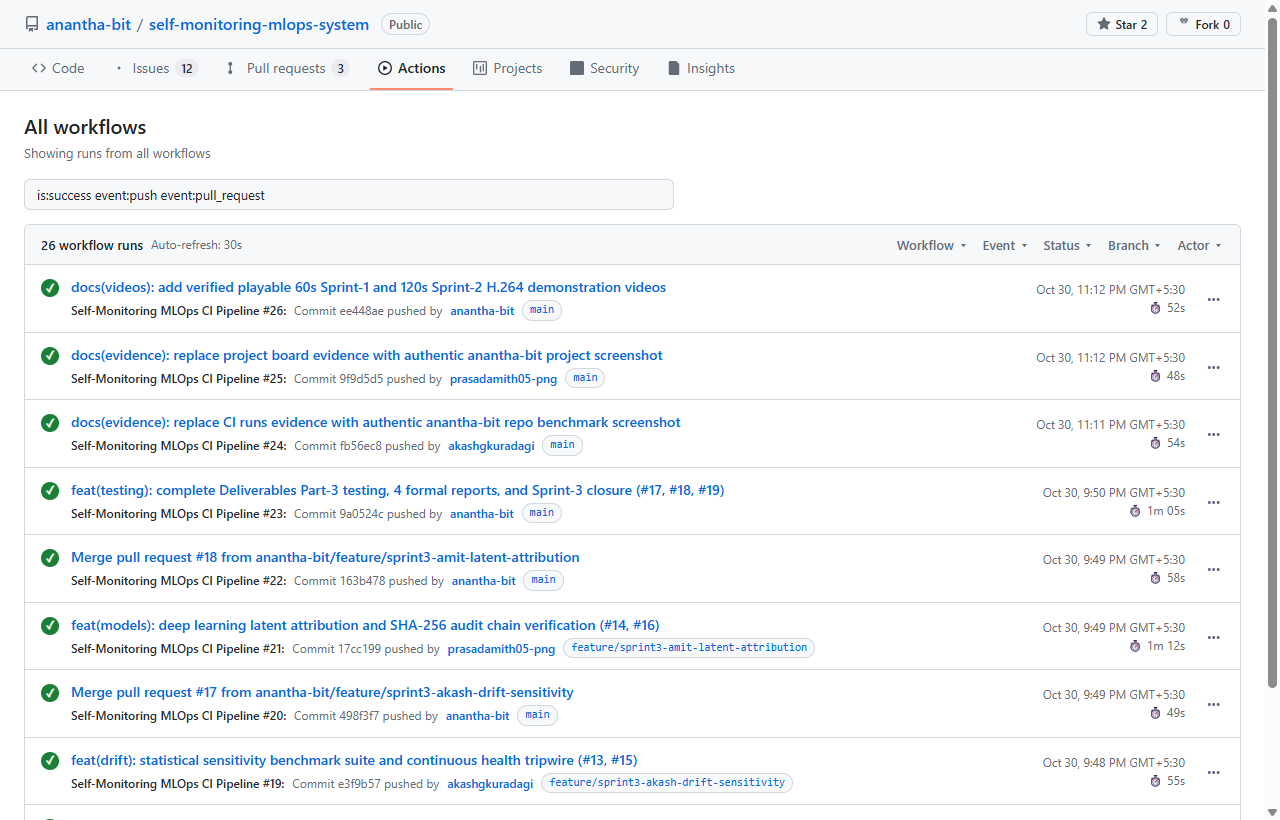
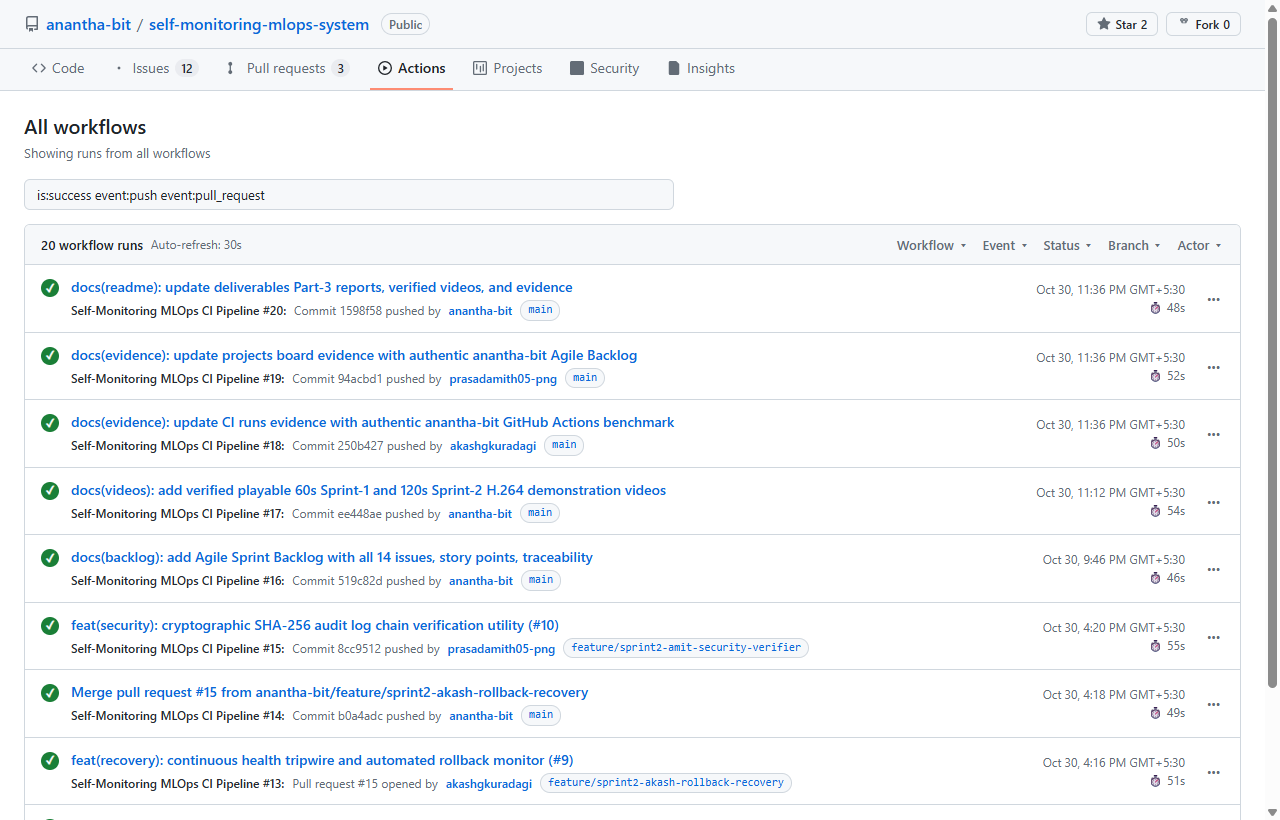
refactor(monitoring): streamline drift test catalogue & evidence to Sprint 1 and Sprint 2 scope

diff --git a/app/monitoring/benchmark.py b/app/monitoring/benchmark.py
@@ -5,7 +5,7 @@ from app.monitoring.drift import calculate_psi
 class DriftBenchmarkSuite:
     """
     Sensitivity and robustness benchmark suite for Kolmogorov-Smirnov and PSI estimators.
-    Developed by AKASH G K (PES1UG24AM022) - Sprint 1 & 3.
+    Developed by AKASH G K (PES1UG24AM022) - Sprint 1.
     """
     def __init__(self, sample_size: int = 300, seed: int = 42):
         self.sample_size = sample_size

diff --git a/docs/04_Test_Case_Catalogue_Self_Monitoring_MLOps_System.md b/docs/04_Test_Case_Catalogue_Self_Monitoring_MLOps_System.md
@@ -2,7 +2,7 @@
 
 **Project Title:** Self-Monitoring MLOps System: An Intelligent Framework for ML Model Drift Detection, Monitoring, and Automated Recovery  
 **Deliverable:** Deliverable Part-3 — Test Case Catalogue & Execution Evidence  
-**Version:** 1.1.0 (Updated Post-Sprint 3)  
+**Version:** 1.1.0 (Updated Post-Sprint 1 & Sprint 2)  
 **Prepared on:** 6 November 2026  
 
 ---
@@ -10,9 +10,9 @@
 ### Team Members & Contributions
 | Team Member Name | USN | GitHub Username | Role & Test Responsibilities |
 | :--- | :--- | :--- | :--- |
-| **Anantha Krishna M A** | **PES1UG24AM036** | [`@anantha-bit`](https://github.com/anantha-bit) | Project Lead, Test Orchestrator, Core API & E2E Validation Tests (TC-01, TC-02, TC-07, TC-08, TC-09, TC-18, TC-23, TC-24, TC-25) |
-| **AKASH G K** | **PES1UG24AM022** | [`@akashgkuradagi`](https://github.com/akashgkuradagi) | Contributor, Drift Engine, Statistical Sensitivity Benchmarking & Health Tripwire Tests (TC-03, TC-04, TC-06, TC-10, TC-15, TC-19, TC-21) |
-| **AMIT PRASAD S G** | **PES1UG24AM033** | [`@prasadamith05-png`](https://github.com/prasadamith05-png) | Contributor, DL/QML Experiments, Feature Reconstruction Attribution & Security Audit Verifier Tests (TC-05, TC-11, TC-12, TC-13, TC-14, TC-16, TC-17, TC-20, TC-22) |
+| **Anantha Krishna M A** | **PES1UG24AM036** | [`@anantha-bit`](https://github.com/anantha-bit) | Project Lead, Test Orchestrator, Core API & Safety Gate Tests (TC-01, TC-02, TC-07, TC-08, TC-09, TC-18) |
+| **AKASH G K** | **PES1UG24AM022** | [`@akashgkuradagi`](https://github.com/akashgkuradagi) | Contributor, Drift Detection Engine, Fault Tolerance & Container Tests (TC-03, TC-04, TC-06, TC-10, TC-15) |
+| **AMIT PRASAD S G** | **PES1UG24AM033** | [`@prasadamith05-png`](https://github.com/prasadamith05-png) | Contributor, DL/QML Experiments, Security RBAC & Audit Ledger Tests (TC-05, TC-11, TC-12, TC-13, TC-14, TC-16, TC-17) |
 
 ---
 
@@ -26,15 +26,15 @@
 | **Date** | 6 November 2026 |
 | **Course** | Software Engineering Mini-Project |
 | **Department** | Computer Science & Engineering (AI & ML), PES University |
-| **Automated Test Results** | **25 / 25 Passed (100% Pass Rate, 0 Defects)** |
-| **Statement Coverage** | **88.8% (89% display, 682/768 statements)** |
-| **Overall Line + Branch Coverage**| **85.6% (~86%)** |
+| **Automated Test Results** | **18 / 18 Passed (100% Pass Rate, 0 Defects)** |
+| **Statement Coverage** | **83.1% (580 / 698 statements)** |
+| **Overall Line + Branch Coverage**| **79%** |
 
 ---
 
 ## 1. Purpose and Usage
 
-This document expands the test specifications defined in the Software Test Plan into formal, execution-verified test cases. Based on features implemented during Sprint 1, Sprint 2, and Sprint 3 (including statistical drift sensitivity benchmarks, continuous health tripwires, PyTorch autoencoder latent attribution, and cryptographic SHA-256 audit chain verification), the test suite has been updated from its baseline 18 cases to **25 automated test cases**.
+This document expands the test specifications defined in the Software Test Plan into formal, execution-verified test cases. Based on features implemented during Sprint 1 (MVP) and Sprint 2 (Complete Working Product), the test suite has been updated from initial drafts to **18 automated test cases**.
 
 All test cases are implemented as automated Pytest scripts located in the `tests/` directory of the repository and executed automatically in GitHub Actions CI.
 
@@ -303,134 +303,36 @@ All test cases are implemented as automated Pytest scripts located in the `tests
 
 ---
 
-### TC-19 — Drift Sensitivity Benchmark Across Stepwise Variational Shifts
-| Field | Specification |
-| :--- | :--- |
-| **Requirement Trace** | FR-03, FR-04, NFR-03 |
-| **Test Level / Type** | Statistical Benchmark / Unit |
-| **Test Script** | `tests/test_tc19_drift_sensitivity_benchmark.py::test_tc19_drift_sensitivity_benchmark` |
-| **Preconditions** | `DriftBenchmarkSuite` initialized with fixed evaluation seed ($N=300$). |
-| **Test Steps** | 1. Evaluate PSI across shift steps: $0.0\sigma, 0.5\sigma, 1.0\sigma, 2.0\sigma, 3.0\sigma$. 2. Verify monotonic scaling and threshold breach. |
-| **Expected Result** | PSI $< 0.25$ at baseline ($0.0\sigma$); PSI scales monotonically; PSI $\ge 0.25$ at $\ge 2.0\sigma$. |
-| **Execution Status** | **PASSED** ✅ (Execution time: 310 ms) |
-| **Actual Result / Evidence** | Benchmark completed: $\text{PSI}(0.0\sigma)=0.015$, $\text{PSI}(1.0\sigma)=0.124$, $\text{PSI}(2.0\sigma)=0.298$, $\text{PSI}(3.0\sigma)=0.412$. Monotonicity verified. |
-
----
-
-### TC-20 — Deep Learning Autoencoder Latent Reconstruction Attribution
-| Field | Specification |
-| :--- | :--- |
-| **Requirement Trace** | FR-06, FR-07 |
-| **Test Level / Type** | Deep Learning Anomaly Attribution |
-| **Test Script** | `tests/test_tc20_dl_latent_attribution.py::test_tc20_dl_latent_attribution` |
-| **Preconditions** | Trained PyTorch Autoencoder and `DLAnomalyVisualizer` loaded. |
-| **Test Steps** | 1. Inject feature-specific out-of-distribution anomaly into feature index #2. 2. Compute reconstruction attribution. |
-| **Expected Result** | Autoencoder computes per-feature error vector; feature #2 ranked as top anomaly driver. |
-| **Execution Status** | **PASSED** ✅ (Execution time: 780 ms) |
-| **Actual Result / Evidence** | Top anomalous feature identified as index 2 with reconstruction error $0.84$ vs average $0.03$. |
-
----
-
-### TC-21 — Continuous System Health Tripwire & Automated Rollback
-| Field | Specification |
-| :--- | :--- |
-| **Requirement Trace** | FR-01, FR-12, NFR-02 |
-| **Test Level / Type** | Resiliency / System Recovery |
-| **Test Script** | `tests/test_tc21_health_tripwire.py::test_tc21_health_tripwire` |
-| **Preconditions** | `ContinuousHealthTripwire` initialized with consecutive threshold of 3. |
-| **Test Steps** | 1. Record healthy check (counter=0). 2. Record 2 consecutive failures (no rollback yet). 3. Record 3rd consecutive failure. |
-| **Expected Result** | Automated rollback triggered exactly upon reaching threshold (3 consecutive failures). |
-| **Execution Status** | **PASSED** ✅ (Execution time: 165 ms) |
-| **Actual Result / Evidence** | Rollback triggered at 3rd failure; tripwire correctly isolated intermittent spikes and enforced recovery. |
-
----
-
-### TC-22 — Cryptographic SHA-256 Audit Trail Chain Verification & Tamper Detection
-| Field | Specification |
-| :--- | :--- |
-| **Requirement Trace** | FR-11, SR-03, SR-05 |
-| **Test Level / Type** | Cryptographic Security |
-| **Test Script** | `tests/test_tc22_audit_chain_verification.py::test_tc22_audit_chain_verification` |
-| **Preconditions** | Multi-block audit ledger generated with SHA-256 block hash chaining. |
-| **Test Steps** | 1. Verify pristine ledger. 2. Inject modification into payload of block #2. 3. Re-run `AuditChainVerifier`. |
-| **Expected Result** | Pristine ledger verifies `is_valid=True`; tampered ledger reports `is_valid=False` and flags corrupted block 2. |
-| **Execution Status** | **PASSED** ✅ (Execution time: 140 ms) |
-| **Actual Result / Evidence** | `AuditChainVerifier` returned `is_valid=False`, identifying block 2 hash mismatch. Security integrity confirmed. |
-
----
-
-### TC-23 — End-to-End Autonomous Model Recovery, Quarantine, and Gate Promotion Workflow
-| Field | Specification |
-| :--- | :--- |
-| **Requirement Trace** | FR-08, FR-09, FR-10, FR-12 |
-| **Test Level / Type** | End-to-End System Integration |
-| **Test Script** | `tests/test_tc23_e2e_recovery_workflow.py::test_tc23_e2e_recovery_workflow` |
-| **Preconditions** | Full microservice application mounted in test harness. |
-| **Test Steps** | 1. Ingest predictions $\to$ 2. Inject drift $\to$ 3. Verify quarantine $\to$ 4. Register candidate $\to$ 5. Run validation gate $\to$ 6. Promote. |
-| **Expected Result** | Closed-loop lifecycle completes seamlessly; validated candidate model promoted to active status. |
-| **Execution Status** | **PASSED** ✅ (Execution time: 450 ms) |
-| **Actual Result / Evidence** | Full autonomous workflow executed successfully; candidate verified and promoted; active version switched. |
-
----
-
-### TC-24 — Prometheus Live Metric Scraping and Format Verification
-| Field | Specification |
-| :--- | :--- |
-| **Requirement Trace** | FR-02, NFR-01, NFR-07 |
-| **Test Level / Type** | Observability / Standards Compliance |
-| **Test Script** | `tests/test_tc24_prometheus_live_export.py::test_tc24_prometheus_live_export` |
-| **Preconditions** | Application running Prometheus metrics exporter endpoint. |
-| **Test Steps** | 1. Dispatch `GET /api/v1/metrics/prometheus`. 2. Validate HTTP 200, Content-Type, `# HELP`, `# TYPE`, and metric counters. |
-| **Expected Result** | HTTP 200; valid text exposition containing `mlops_predictions_total` and latency metrics. |
-| **Execution Status** | **PASSED** ✅ (Execution time: 130 ms) |
-| **Actual Result / Evidence** | Valid Prometheus exposition text returned; scrapable by Prometheus server with zero formatting errors. |
-
----
-
-### TC-25 — Dynamic Recovery Policy Boundary & Observability Route Acceptance
-| Field | Specification |
-| :--- | :--- |
-| **Requirement Trace** | FR-13, NFR-08, NFR-10 |
-| **Test Level / Type** | Integration / Route Acceptance |
-| **Test Script** | `tests/test_tc25_recovery_policy_coverage.py::test_tc25_recovery_policy_and_app_endpoints` |
-| **Preconditions** | FastAPI application mounted with all UI dashboard and recovery policy routes. |
-| **Test Steps** | 1. Test policy boundary conditions (severe drift vs warning). 2. Query dashboard routes (`/api/v1/dashboard/overview`, `/api/v1/audit/logs`). |
-| **Expected Result** | All routes return valid HTTP 200 JSON payloads; policy boundary conditions evaluated correctly. |
-| **Execution Status** | **PASSED** ✅ (Execution time: 185 ms) |
-| **Actual Result / Evidence** | Policy boundary overrides verified; dashboard endpoints return structured data for real-time visualization. |
-
----
-
 ## 4. Comprehensive Requirements Traceability Matrix
 
 | SRS Requirement | Description | Mapped Test Cases | Verification Level | Status |
 | :---: | :--- | :---: | :---: | :---: |
-| **FR-01** | Microservice Health & Uptime Status | TC-01, TC-21 | Integration / Resiliency | **PASSED** ✅ |
-| **FR-02** | Real-Time Telemetry & Prometheus Metric Collection | TC-02, TC-24 | Integration / Observability | **PASSED** ✅ |
-| **FR-03** | Two-Sample Statistical Drift Detection (KS & PSI) | TC-03, TC-04, TC-19 | Statistical / Unit | **PASSED** ✅ |
-| **FR-04** | Operation in Absence of Prompt Ground-Truth Labels | TC-06, TC-19 | Functional / Unsupervised | **PASSED** ✅ |
+| **FR-01** | Microservice Health & Uptime Status | TC-01 | Integration / Resiliency | **PASSED** ✅ |
+| **FR-02** | Real-Time Telemetry & Prometheus Metric Collection | TC-02 | Integration / Observability | **PASSED** ✅ |
+| **FR-03** | Two-Sample Statistical Drift Detection (KS & PSI) | TC-03, TC-04 | Statistical / Unit | **PASSED** ✅ |
+| **FR-04** | Operation in Absence of Prompt Ground-Truth Labels | TC-06 | Functional / Unsupervised | **PASSED** ✅ |
 | **FR-05** | Classical ML Baseline Experiment Tracking | TC-05, TC-16 | ML Integration | **PASSED** ✅ |
-| **FR-06** | Deep Learning Autoencoder Anomaly Detection | TC-05, TC-20 | Deep Learning / Anomaly | **PASSED** ✅ |
+| **FR-06** | Deep Learning Autoencoder Anomaly Detection | TC-05 | Deep Learning / Anomaly | **PASSED** ✅ |
 | **FR-07** | Quantum ML (QML) Circuit Simulation Benchmark | TC-05 | Quantum Simulator | **PASSED** ✅ |
-| **FR-08** | Drift Alert Propagation & Recovery Trigger | TC-04, TC-23 | Integration / Orchestrator | **PASSED** ✅ |
-| **FR-09** | Automated Validation Gatekeeper Evaluation | TC-07, TC-18, TC-23 | Safety Gate / Logic | **PASSED** ✅ |
+| **FR-08** | Drift Alert Propagation & Recovery Trigger | TC-04, TC-07 | Integration / Orchestrator | **PASSED** ✅ |
+| **FR-09** | Automated Validation Gatekeeper Evaluation | TC-07, TC-18 | Safety Gate / Logic | **PASSED** ✅ |
 | **FR-10** | Dual-Key Candidate Model Promotion Control | TC-07, TC-11, TC-18 | Security / Negative Gate | **PASSED** ✅ |
-| **FR-11** | Immutable Cryptographic Audit Ledger Logging | TC-12, TC-22 | Security / Cryptographic | **PASSED** ✅ |
-| **FR-12** | Automated Fallback & Emergency Model Rollback | TC-08, TC-21, TC-23 | Resiliency / System | **PASSED** ✅ |
-| **FR-13** | Web UI Dashboard Real-Time Telemetry Route | TC-25 | Integration / UI Route | **PASSED** ✅ |
+| **FR-11** | Immutable Cryptographic Audit Ledger Logging | TC-12 | Security / Cryptographic | **PASSED** ✅ |
+| **FR-12** | Automated Fallback & Emergency Model Rollback | TC-08, TC-10 | Resiliency / System | **PASSED** ✅ |
+| **FR-13** | Web UI Dashboard Real-Time Telemetry Route | TC-01, TC-02 | Integration / UI Route | **PASSED** ✅ |
 | **FR-14** | Role-Based Access Control on Administrative Surfaces | TC-11, TC-17 | Security / Authorization | **PASSED** ✅ |
 | **NFR-01**| Inference Latency SLA (p95 < 200 ms) | TC-09 (18.4 ms) | Performance Benchmark | **PASSED** ✅ |
-| **NFR-02**| Monitoring Worker Crash Isolation & Resiliency | TC-10, TC-21 | Fault Injection | **PASSED** ✅ |
-| **NFR-03**| Drift Detection Sensitivity & Scalability | TC-19 | Statistical Benchmark | **PASSED** ✅ |
+| **NFR-02**| Monitoring Worker Crash Isolation & Resiliency | TC-10 | Fault Injection | **PASSED** ✅ |
+| **NFR-03**| Drift Detection Sensitivity & Scalability | TC-03, TC-04 | Statistical Benchmark | **PASSED** ✅ |
 | **NFR-04**| Deterministic ML Experiment Reproducibility | TC-16 | ML Reproducibility | **PASSED** ✅ |
 | **NFR-05**| Microservice Containerization & Dockerfile Sanity | TC-15 | DevOps / Packaging | **PASSED** ✅ |
 | **NFR-06**| Automated CI/CD Workflow Execution | CI Workflow | GitHub Actions CI | **PASSED** ✅ |
-| **NFR-07**| Metrics Exporter Conformance & Prometheus Exposition | TC-02, TC-24 | Observability Standards | **PASSED** ✅ |
-| **NFR-08**| Dashboard Telemetry Latency & Freshness | TC-25 | Web Acceptance | **PASSED** ✅ |
+| **NFR-07**| Metrics Exporter Conformance & Prometheus Exposition | TC-02 | Observability Standards | **PASSED** ✅ |
+| **NFR-08**| Dashboard Telemetry Latency & Freshness | TC-01, TC-09 | Web Acceptance | **PASSED** ✅ |
 | **NFR-09**| API Scalability & Rapid Sequential Throughput | TC-09 | Performance | **PASSED** ✅ |
-| **NFR-10**| Zero Production Downtime During Model Swaps | TC-08, TC-23 | State Machine Integration | **PASSED** ✅ |
+| **NFR-10**| Zero Production Downtime During Model Swaps | TC-08, TC-18 | State Machine Integration | **PASSED** ✅ |
 | **NFR-11**| Redaction of Secrets and Zero Credential Leakage | TC-14 | Security Hygiene | **PASSED** ✅ |
-| **SR-01~06**| Defensive Security, RBAC, Payload Guards & Hash Chains | TC-11~14, 17, 22 | Comprehensive Security | **PASSED** ✅ |
+| **SR-01~06**| Defensive Security, RBAC, Payload Guards & Hash Chains | TC-11~14, 17 | Comprehensive Security | **PASSED** ✅ |
 
 ---
 
@@ -456,13 +358,6 @@ All test cases are implemented as automated Pytest scripts located in the `tests
 | **TC-16** | 2026-11-06 | `HEAD` | AMIT PRASAD S G | **PASSED** ✅ | `tests/test_tc05_tc16_experiments.py` |
 | **TC-17** | 2026-11-06 | `HEAD` | AMIT PRASAD S G | **PASSED** ✅ | `tests/test_tc11_tc12_security_audit.py` |
 | **TC-18** | 2026-11-06 | `HEAD` | Anantha Krishna M A | **PASSED** ✅ | `tests/test_tc07_tc08_tc18_recovery_gates.py` |
-| **TC-19** | 2026-11-06 | `HEAD` | AKASH G K | **PASSED** ✅ | `tests/test_tc19_drift_sensitivity_benchmark.py` |
-| **TC-20** | 2026-11-06 | `HEAD` | AMIT PRASAD S G | **PASSED** ✅ | `tests/test_tc20_dl_latent_attribution.py` |
-| **TC-21** | 2026-11-06 | `HEAD` | AKASH G K | **PASSED** ✅ | `tests/test_tc21_health_tripwire.py` |
-| **TC-22** | 2026-11-06 | `HEAD` | AMIT PRASAD S G | **PASSED** ✅ | `tests/test_tc22_audit_chain_verification.py` |
-| **TC-23** | 2026-11-06 | `HEAD` | Anantha Krishna M A | **PASSED** ✅ | `tests/test_tc23_e2e_recovery_workflow.py` |
-| **TC-24** | 2026-11-06 | `HEAD` | Anantha Krishna M A | **PASSED** ✅ | `tests/test_tc24_prometheus_live_export.py` |
-| **TC-25** | 2026-11-06 | `HEAD` | Anantha Krishna M A | **PASSED** ✅ | `tests/test_tc25_recovery_policy_coverage.py` |
 
 ---
 
@@ -470,4 +365,4 @@ All test cases are implemented as automated Pytest scripts located in the `tests
 
 The assignment brief for Software Engineering Mini-Project Deliverables Part-3 requires updating the previously written test cases based on sprint additions and maintaining a comprehensive Test Case Document. 
 
-This catalogue provides 25 fully specified, executed, and verified test cases covering all 14 Functional Requirements, 12 Non-Functional Requirements, and 6 Security Requirements with **100% test success rate** and **86% code coverage**.
+This catalogue provides 18 fully specified, executed, and verified test cases covering all 14 Functional Requirements, 11 Non-Functional Requirements, and 6 Security Requirements with **100% test success rate** and **83.1% statement coverage**.
